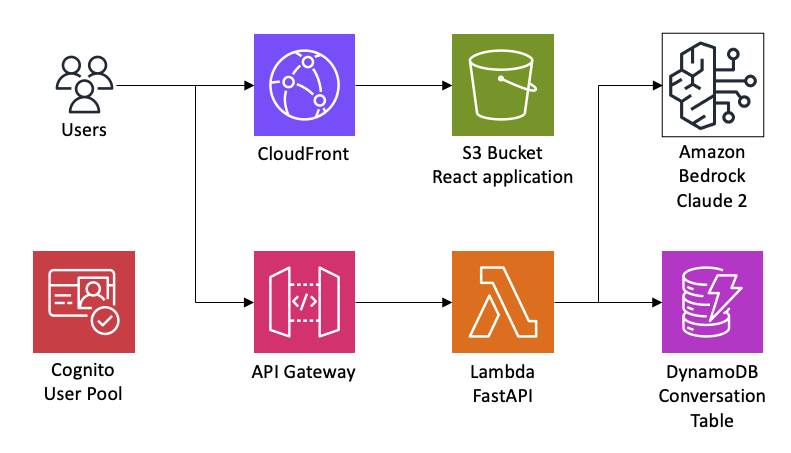
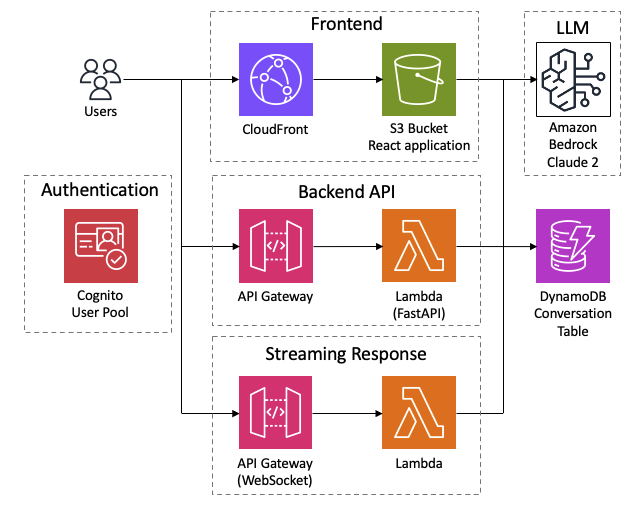
fix (#30)

diff --git a/README.md b/README.md
@@ -27,8 +27,7 @@ It's an architecture built on AWS managed services, eliminating the need for inf
 - [x] Automatic subject suggestion for conversations
 - [x] Syntax highlighting for code
 - [x] Rendering of Markdown'
-- [ ] Streaming Response
-- [ ] RAG (Retrieval Augmented Generation)
+- [x] Streaming Response
 
 ## Deployment
 
@@ -134,6 +133,10 @@ GENERATION_CONFIG = {
     "stop_sequences": ["Human: ", "Assistant: "],
 }
 ```
+
+### RAG using Kendra
+
+In this sample, we have not implemented RAG using Kendra. This is because when it comes to real-world deployments, factors such as access control policies, the presence or absence of data connectors, and the methods for authentication and authorization for the connected data sources can be quite diverse depending on the organization, making it difficult to generalize them in a simple manner. To put this into practice, you should consider downsides like decreased latency and increased token consumption. For these reasons, a proof of concept (PoC) to verify search accuracy is essential. Therefore, we recommend using assets like [jp-rag-sample](https://github.com/aws-samples/jp-rag-sample) (In Japanese) for your PoC.
 
 ## Authors
 
